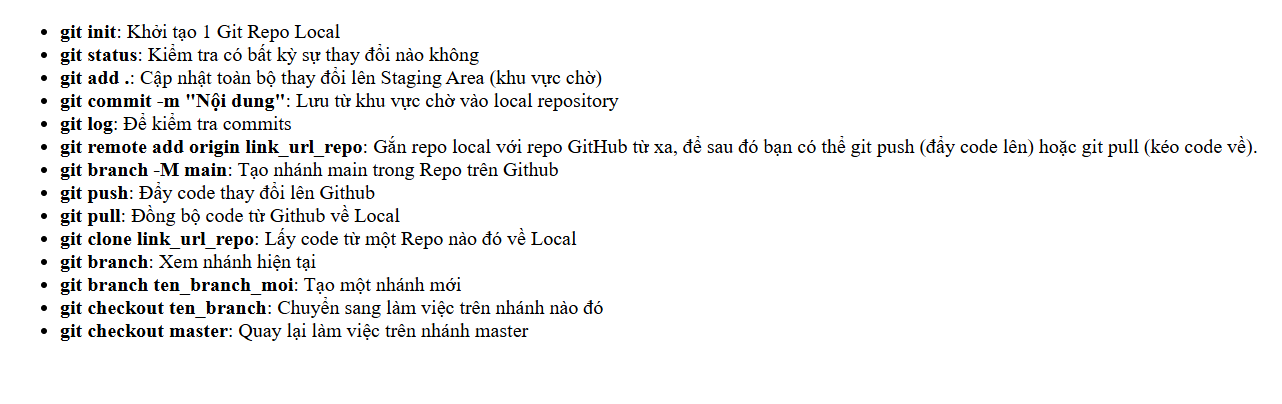
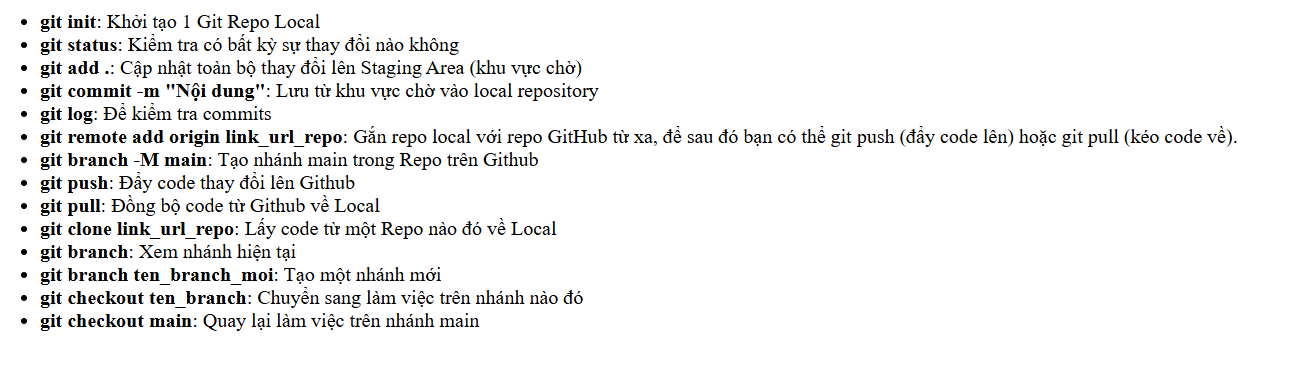
Chỉnh sửa lệnh git checkout main, chỉnh lại README

Changed region(s): [[0.0312, 0.0293, 0.9984, 0.8777]]

diff --git a/Demo_Git2.html b/Demo_Git2.html
@@ -20,7 +20,7 @@
         <li><strong>git branch</strong>: Xem nhánh hiện tại</li>
         <li><strong>git branch ten_branch_moi</strong>: Tạo một nhánh mới</li>
         <li><strong>git checkout ten_branch</strong>: Chuyển sang làm việc trên nhánh nào đó</li>
-        <li><strong>git checkout master</strong>: Quay lại làm việc trên nhánh master</li>
+        <li><strong>git checkout main</strong>: Quay lại làm việc trên nhánh main</li>
     </ul>
 </body>
 </html>
